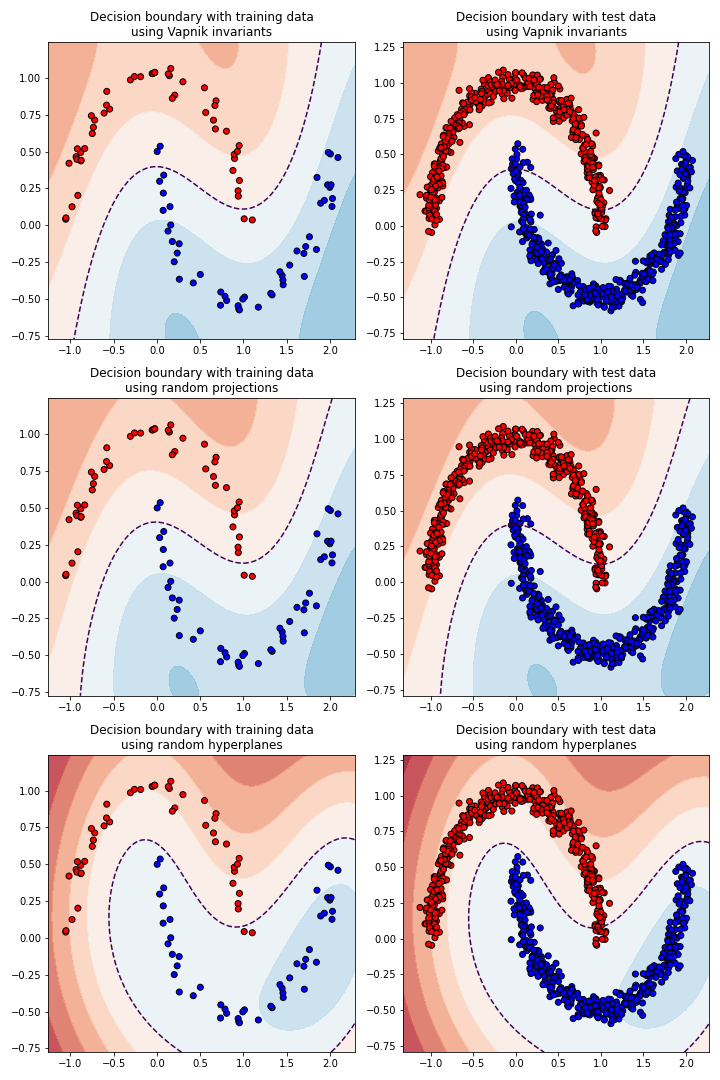
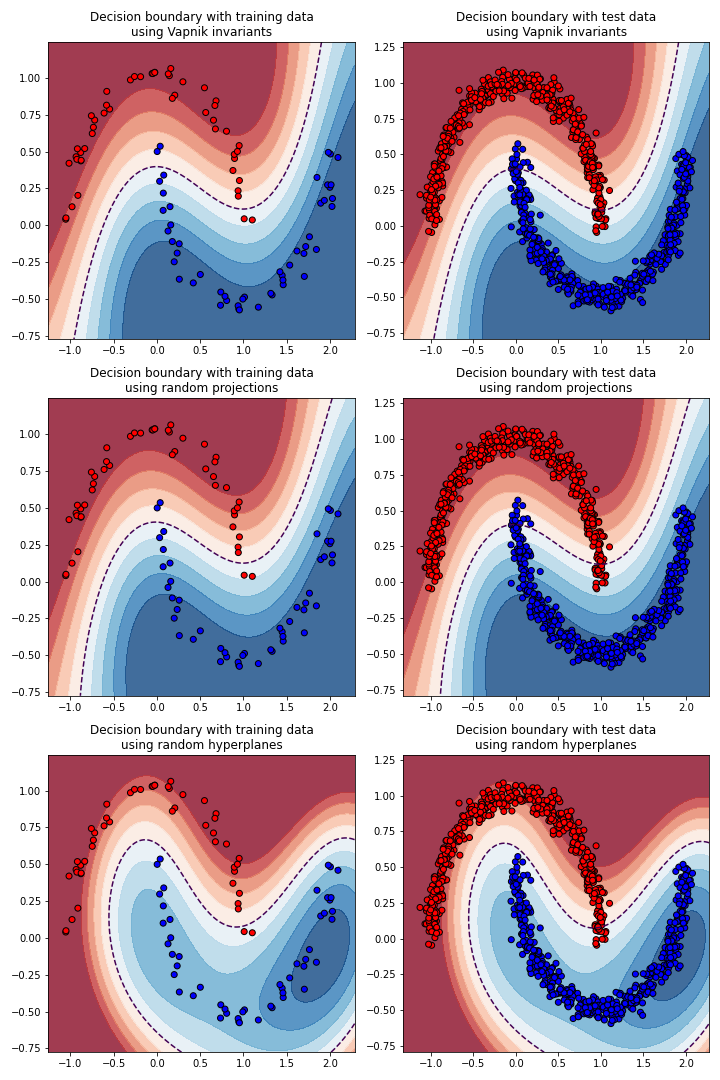
Add figures and tables for CH04

diff --git a/thesis/Chapters/Chapter4.tex b/thesis/Chapters/Chapter4.tex
@@ -9,6 +9,7 @@ well they perform when comparing them to the original invariants proposed in \ci
 
 \section{Experimenting with toy problems}
 
+
 \begin{figure}
     \centering
     \includegraphics[width=\textwidth]{thesis/Figures/toy_datasets.png}
@@ -32,25 +33,30 @@ well they perform when comparing them to the original invariants proposed in \ci
 
 \begin{figure}
     \centering
-    \includegraphics[width=0.6\textwidth]{thesis/Figures/num_selected_invariants.png}
+    \includegraphics[width=\textwidth]{thesis/Figures/circles_decision_boundaries_ecoc.png}
+    \caption{Caption}
+    \label{fig:circles_decision_boundary_ecoc}
+\end{figure}
+
+\begin{figure}
+    \centering
+    \includegraphics[width=\textwidth]{thesis/Figures/moons_decision_boundaries_ecoc.png}
+    \caption{Caption}
+    \label{fig:moons_decision_boundary_ecoc}
+\end{figure}
+
+\begin{figure}
+    \centering
+    \includegraphics[width=0.8\textwidth]{thesis/Figures/num_selected_invariants.png}
     \caption{Caption}
     \label{fig:toys_small_num_selected_invariants}
 \end{figure}
 
 \begin{figure}
     \centering
-    \begin{minipage}{0.5\textwidth}
-        \centering
-        \includegraphics[width=\textwidth]{thesis/Figures/mean_num_selected_invariants.png}
-        \caption{Caption}
-        \label{fig:toys_mean_num_selected}
-    \end{minipage}%
-    \begin{minipage}{0.5\textwidth}
-        \centering
-        \includegraphics[width=\textwidth]{thesis/Figures/mean_first_selected.png}
-        \caption{Caption}
-        \label{fig:toys_mean_first_selected}
-    \end{minipage}
+    \includegraphics[width=\textwidth]{thesis/Figures/mean_num_selected.png}
+    \caption{Caption}
+    \label{fig:toys_mean_num_selected}
 \end{figure}
 
 
@@ -77,5 +83,98 @@ Que experimentos propones?
 1- Experimento base: Todos los datos con los modelos a comparar\\
 2- Experimento con reduccion de datos.
 
+\begin{table}[H]
+\centering
+\begin{tabular}{lrrr}
+\textbf{Problem} & \textbf{Num. examples} & \textbf{Attributes} & \textbf{Classes} \\ \hline
+Balance scale    & 625                    & 4                   & 3                \\
+Ecoli            & 336                    & 8                   & 8                \\
+Glass            & 214                    & 9                   & 7(6)\tablefootnote{According to the dataset's documentation, there are 7 classes. However, there is one that does not have any elements. Therefore, the actual number of classes for this problem is 6.}                \\
+Iris             & 150                    & 4                   & 3                \\
+Yeast            & 1484                   & 8                   & 10              
+\end{tabular}
+\caption{Caption}
+\label{tab:problems_description}
+\end{table}
+
 
 \subsection{Results}
+
+% Please add the following required packages to your document preamble:
+% \usepackage{graphicx}
+\begin{table}[h]
+\centering
+\resizebox{\textwidth}{!}{%
+\begin{tabular}{c|cc|cc|cc|cc|}
+\cline{2-9}
+ &
+  \multicolumn{2}{c|}{\textbf{Baseline model}} &
+  \multicolumn{2}{c|}{\textbf{Vapnik invariants}} &
+  \multicolumn{2}{c|}{\textbf{Random projections}} &
+  \multicolumn{2}{c|}{\textbf{Random hyperplanes}} \\ \hline
+\multicolumn{1}{|c|}{\textbf{Problem}} &
+  \multicolumn{1}{c|}{100\%} &
+  10\% &
+  \multicolumn{1}{c|}{100\%} &
+  10\% &
+  \multicolumn{1}{c|}{100\%} &
+  10\% &
+  \multicolumn{1}{c|}{100\%} &
+  10\% \\ \hline
+\multicolumn{1}{|c|}{Balance scale} &
+  \multicolumn{1}{c|}{$91.47 \pm 0.38\%$} &
+  $88.80 \pm 1.73\%$ &
+  \multicolumn{1}{c|}{$91.47 \pm 0.38\%$} &
+  $87.73 \pm 2.10\%$ &
+  \multicolumn{1}{c|}{$91.73 \pm 0.38\%$} &
+  $83.73 \pm 7.17\%$ &
+  \multicolumn{1}{c|}{$90.13 \pm 1.51\%$} &
+  $76.00 \pm 12.77\%$ \\ \hline
+\multicolumn{1}{|c|}{Ecoli} &
+  \multicolumn{1}{c|}{$85.29 \pm 2.08\%$} &
+  $71.57 \pm 1.39\%$ &
+  \multicolumn{1}{c|}{$85.29 \pm 1.20\%$} &
+  $72.55 \pm 4.22\%$ &
+  \multicolumn{1}{c|}{$84.15 \pm 2.05\%$} &
+  $67.32 \pm 4.03\%$ &
+  \multicolumn{1}{c|}{$75.98 \pm 6.28\%$} &
+  $63.89 \pm 9.61\%$ \\ \hline
+\multicolumn{1}{|c|}{Glass} &
+  \multicolumn{1}{c|}{$72.87 \pm 7.91\%$} &
+  $56.59 \pm 4.78\%$ &
+  \multicolumn{1}{c|}{$72.87 \pm 7.91\%$} &
+  $45.74 \pm 6.67\%$ &
+  \multicolumn{1}{c|}{$72.09 \pm 7.44\%$} &
+  $52.45 \pm 7.03\%$ &
+  \multicolumn{1}{c|}{$71.06 \pm 7.60\%$} &
+  $45.48 \pm 9.50\%$ \\ \hline
+\multicolumn{1}{|c|}{Iris} &
+  \multicolumn{1}{c|}{$96.67 \pm 0.00\%$} &
+  $93.33 \pm 2.72\%$ &
+  \multicolumn{1}{c|}{$95.56 \pm 1.57\%$} &
+  $90.00 \pm 4.71\%$ &
+  \multicolumn{1}{c|}{$95.19 \pm 1.66\%$} &
+  $77.78 \pm 22.93\%$ &
+  \multicolumn{1}{c|}{$88.52 \pm 11.56\%$} &
+  $84.81 \pm 9.04\%$ \\ \hline
+\multicolumn{1}{|c|}{Yeast} &
+  \multicolumn{1}{c|}{$53.76 \pm 1.04\%$} &
+  $47.92 \pm 2.08\%$ &
+  \multicolumn{1}{c|}{$53.87 \pm 1.20\%$} &
+  $47.92 \pm 2.14\%$ &
+  \multicolumn{1}{c|}{$52.53 \pm 5.44\%$} &
+  $45.68 \pm 4.60\%$ &
+  \multicolumn{1}{c|}{$50.39 \pm 5.33\%$} &
+  $37.82 \pm 7.92\%$ \\ \hline
+\end{tabular}%
+}
+\caption{Caption}
+\label{tab:results_accuracies_errors}
+\end{table}
+
+\begin{figure}
+    \centering
+    \includegraphics[width=0.7\textwidth]{thesis/Figures/invariants_performance.png}
+    \caption{Caption}
+    \label{fig:invariants_performance}
+\end{figure}

diff --git a/thesis/Chapters/Chapter2.tex b/thesis/Chapters/Chapter2.tex
@@ -20,8 +20,8 @@ refer to the original paper.
 \section{Weak convergence and the LUSI paradigm}
 
 Supervised machine learning algorithms try to find the best estimate of some conditional probability
-function $P(y = 1 | x)$, i.e., given a data point $x$, we want to compute the probability that this
-point belongs to a particular class.
+function $P(y | x)$, i.e., given a data point $x$, we want to compute the probability that this
+point belongs to a particular class $y$.
 
 Classical methods do this by using the strong mode of convergence in the Hilbert space. However,
 in the LUSI paradigm this estimation is obtained using the weak mode of convergence. Hence, it is
@@ -53,7 +53,7 @@ numerical properties:
 
 These two properties imply two different modes of convergence: a strong one and a weak one. Classical
 learning paradigms rely on the strong convergence mode (convergence in metrics), trying to find a
-sequence of functions $\set{P_l(y=1 | x)}$ such that
+sequence of functions $\set{P_l(y=1 | x)}$\footnote{We focus here in the binary problem setting, i.e. $y\in \{0,1\}$. Thus, $P_l(y=1 | x)$ fully specifies the output probability distribution.} such that
 
 \[
     \lim_{l \to \infty} \norm{P_l(y=1 | x) - P(y=1 | x)} = 0\quad \forall x
@@ -79,7 +79,7 @@ restrict the scope of weak convergence only to the set of functions $\mathcal{P}
 called invariants, and can be expressed as the following equalities:
 
 \[
-    \int \psi_s P(y=1 | x)dP(x) = \int \psi_s P(y=1, x) = a_s,\quad s = 1, \dots, m
+    \int \psi_s P(y=1 | x)dP(x) = \int \psi_s dP(y=1, x) = a_s,\quad s = 1, \dots, m
 \]
 
 where $a_s$ is the expected value of the predicate $\psi_s(x)$ with respect to measure

diff --git a/thesis/Chapters/Chapter3.tex b/thesis/Chapters/Chapter3.tex
@@ -109,8 +109,7 @@ hyperplane), instead of trying to preserve it in the whole space.
 \section{Extending the LUSI paradigm to multiclass problems}
 
 As we have seen up until now, this learning paradigm can be easily applied to binary classification problems
-and solve them. However, most of the real world classification problems are not binary but multiclass.
-So, instead of restraining ourselves to a particular kind of problems, it seems reasonable trying to extend
+and solve them. Nevertheless, note that the invariants are defined specifically for just one of the classes. This ignores the invariant information that could be gathered by considering the other class. Moreover, in the most general setting of multiclass classification, the algorithm has to be extended. So, instead of restraining ourselves to a particular kind of problems, it seems reasonable trying to extend
 LUSI to multiclass problems so that we have a wider application scope.
 
 One framework that can be used to easily deal with this kind of problems is Error Correcting Output Codes (ECOC),

diff --git a/thesis/main.tex b/thesis/main.tex
@@ -47,6 +47,7 @@ headsepline, % Uncomment to get a line under the header
 \usepackage{amsmath}
 \usepackage{float}
 \usepackage{amsmath}
+\usepackage{tablefootnote}
 \DeclareMathOperator*{\argmin}{\arg\!\min}
 %----------------------------------------------------------------------------------------
 %	MARGIN SETTINGS
